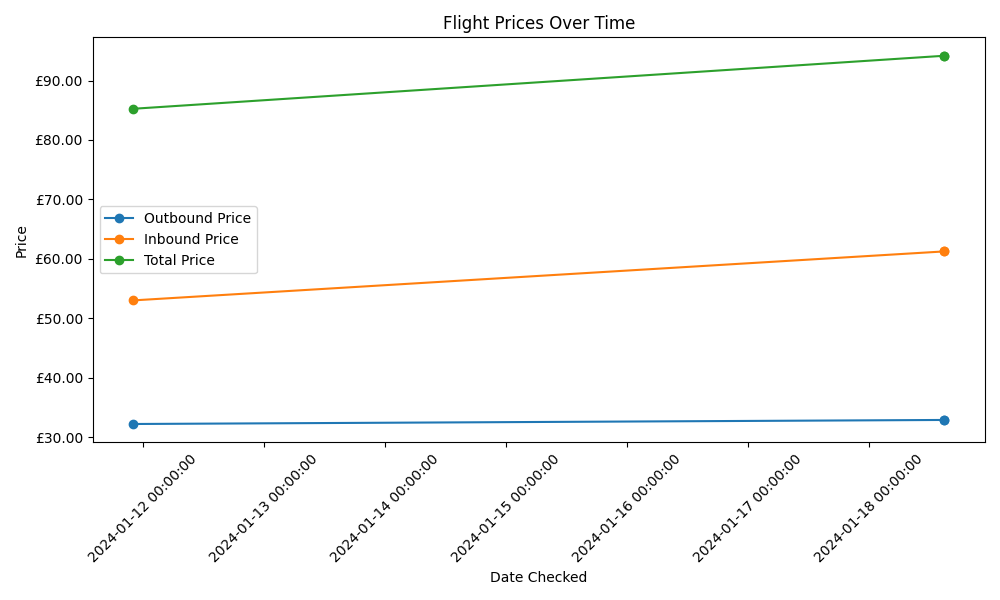
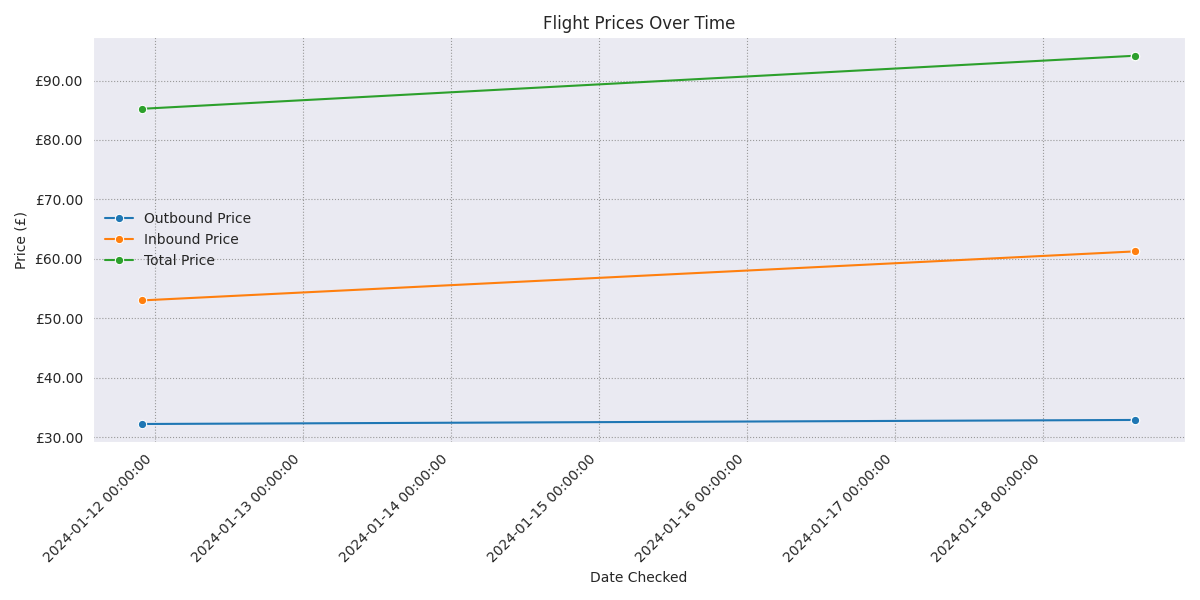
imporved plotting with seaborn and added some prior data for the price that I paid to the plot

diff --git a/dataprocessing.py b/dataprocessing.py
@@ -4,6 +4,7 @@ from datetime import datetime
 import matplotlib.dates as mdates
 from matplotlib.ticker import FuncFormatter
 import numpy as np
+import seaborn as sns
 
 #opens the file and reads in the pricing info
 with open(f'data/prices.pkl', 'rb') as f:
@@ -22,20 +23,19 @@ dates.append(datetime(2024, 1, 11, 22, 00, 00))
 outbound_prices.append(32.23)
 inbound_prices.append(53.02)
 
+# Create a DataFrame for Seaborn
+import pandas as pd
+df = pd.DataFrame({'Date': dates, 'outbound_price': outbound_prices, 'inbound_price': inbound_prices})
+df["total_price"] = df["outbound_price"] + df["inbound_price"]
 
-# fig, ax = plt.subplots()
+# Set the seaborn style
+sns.set_style("darkgrid", {"grid.color": ".6", "grid.linestyle": ":"})
 
-# ax.scatter(dates, outbound_prices)
-# ax.scatter(dates, inbound_prices)
-
-# Plotting
-plt.figure(figsize=(10, 6))
-
-total_price = np.array(outbound_prices) + np.array(inbound_prices)
-
-plt.plot(dates, outbound_prices, label='Outbound Price', marker='o')
-plt.plot(dates, inbound_prices, label='Inbound Price', marker='o')
-plt.plot(dates, total_price, label='Total Price', marker='o')
+# Plotting with Seaborn
+plt.figure(figsize=(12, 6))
+sns.lineplot(x='Date', y='outbound_price', data=df, label='Outbound Price', marker='o')
+sns.lineplot(x='Date', y='inbound_price', data=df, label='Inbound Price', marker='o')
+sns.lineplot(x='Date', y='total_price', data=df, label='Total Price', marker='o')
 
 # Formatting the x-axis to show dates elegantly
 plt.gca().xaxis.set_major_formatter(mdates.DateFormatter('%Y-%m-%d %H:%M:%S'))
@@ -45,13 +45,22 @@ plt.gca().xaxis.set_major_locator(mdates.AutoDateLocator(minticks=5, maxticks=10
 plt.gca().yaxis.set_major_formatter(FuncFormatter(pound_sign_formatter))
 
 plt.xlabel('Date Checked')
-plt.ylabel('Price')
+plt.ylabel('Price (£)')
 plt.title('Flight Prices Over Time')
-plt.legend()
-plt.xticks(rotation=45)
+
+# Rotate x-axis labels for better readability
+plt.xticks(rotation=45, ha='right')
+
+# Beautify the legend
+plt.legend(frameon=False)
+
+# Optionally, add shaded region for weekends
+for i in range(len(dates) - 1):
+    if dates[i].weekday() == 4:  # Friday
+        plt.axvspan(dates[i], dates[i + 1], facecolor='lightgray', alpha=0.2)
+
 plt.tight_layout()
 
-#plt.show()
 
 plt.savefig("plots/price_plot.png")
 
